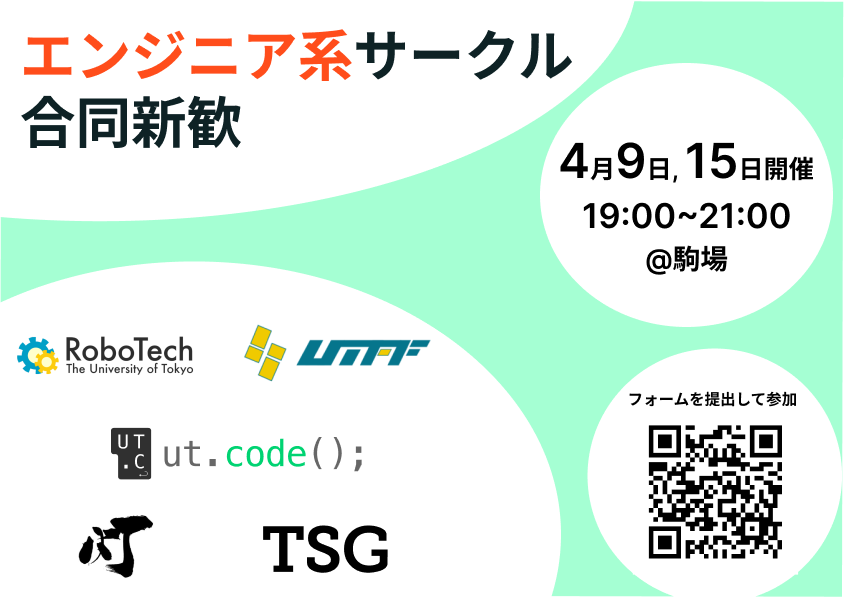
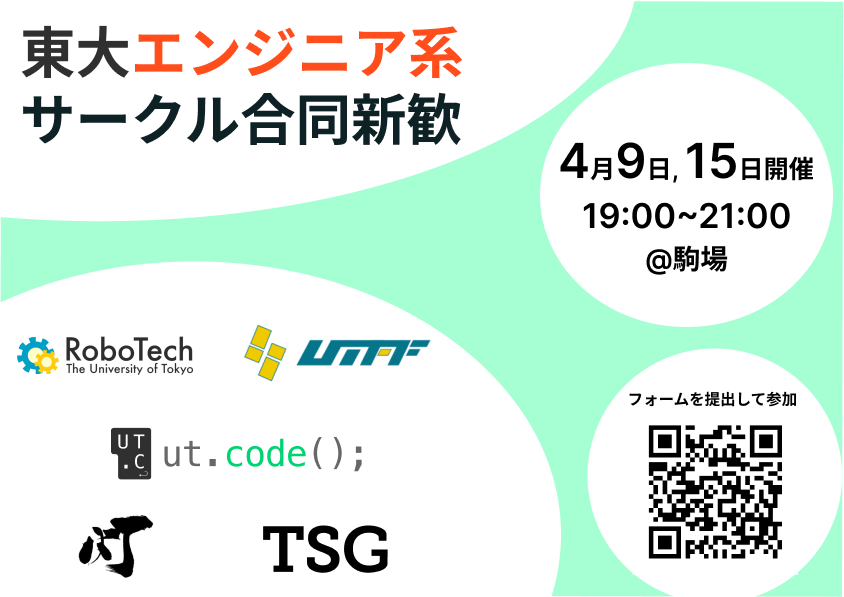
update joint welcome session image and time

Changed region(s): [[0.0308, 0.0302, 0.6777, 0.2714]]

diff --git a/contents/articles/2025/03-24_joint-welcome-session/index.md b/contents/articles/2025/03-24_joint-welcome-session/index.md
@@ -13,8 +13,8 @@ bg_color: "#A5FFD3"
 
 ### 📅 開催日時
 
-- 4/9 (火) 18:30 開場 / 19:00 〜 21:00
-- 4/15 (月) 18:30 開場 / 19:00 〜 21:00
+- 4/9 (火) 18:50 開場 / 19:00 〜 21:00
+- 4/15 (月) 18:50 開場 / 19:00 〜 21:00
 
 ### 🏢 開催場所
 
